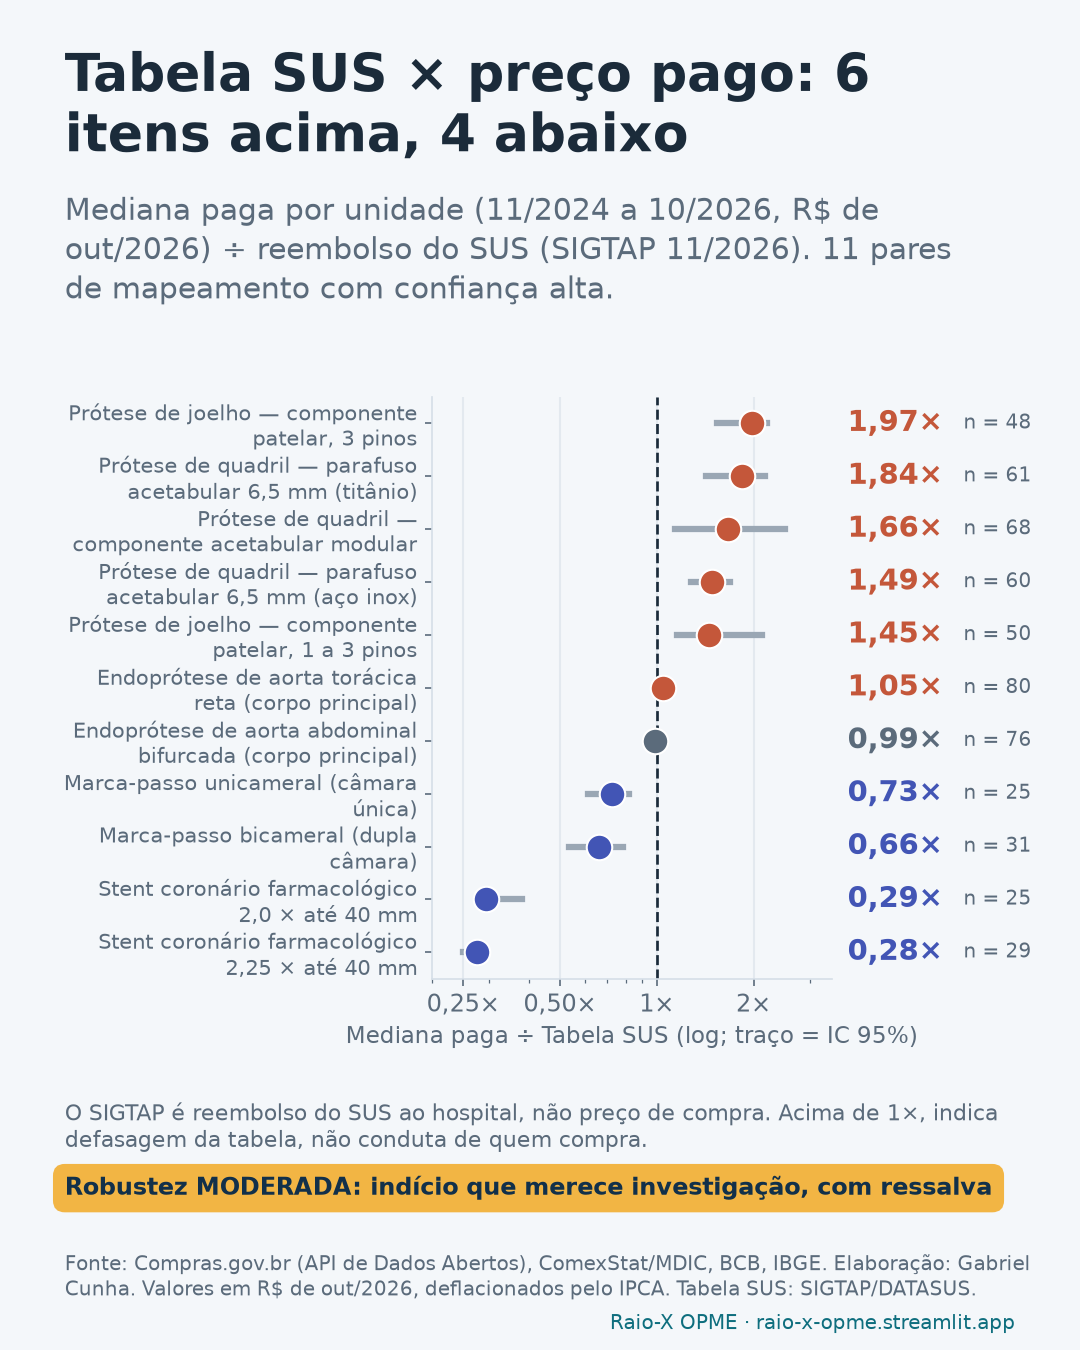
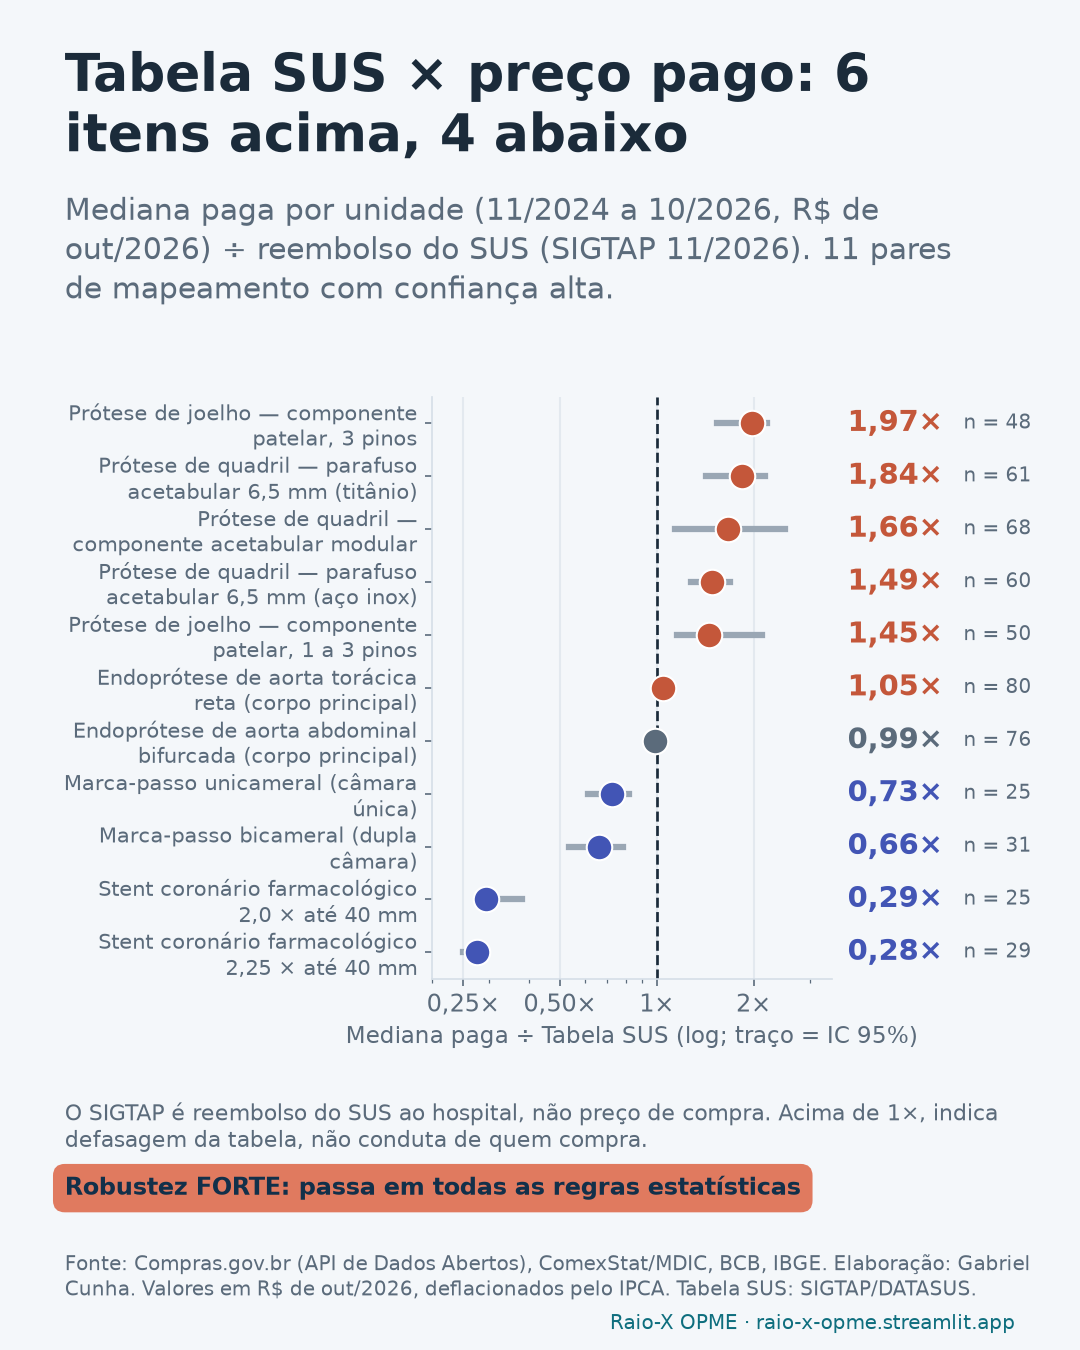
feat(sigtap): mapeamento validado pelo Gabriel
Decisões da planilha docs/validacao_sigtap.xlsx aplicadas ao
config/mapa_sigtap_catmat.yaml: MANTER nos 24 pares (11 alta, 9 média,
4 baixa) e nos 2 itens sem par, sem comentários. Todos os pares de
confiança alta têm decisão preenchida, então validado_por_gabriel passa
a true; cada par ganha o campo nota_validacao.

Gold, achados e gráfico 7 regerados: 6 achados de razão preço ÷ tabela
viram forte. O post 6 já citava só pares de confiança alta com
robustez forte e não mudou. O teste offline deixa de fixar o estado
"não validado" e um teste novo cobre a trava (forte só com mapa
validado). Docs, calendário, PENDENCIAS e PROGRESS atualizados.

Changed region(s): [[0.0306, 0.84, 0.9472, 0.9022]]

diff --git a/tests/test_sigtap.py b/tests/test_sigtap.py
@@ -8,8 +8,9 @@ import polars as pl
 import pytest
 
 from raiox.analytics.dispersion import Period
-from raiox.analytics.findings import sigtap_note
+from raiox.analytics.findings import _sigtap_findings, sigtap_note
 from raiox.analytics.sigtap_bridge import format_code, parse_mapping, ponte_sigtap_preco
+from raiox.config import get_settings
 from raiox.sources import sigtap
 
 # Layouts reais (cabeçalhos copiados dos ZIPs de 01/2015 e 11/2026): VL_SH mudou de 10 para 12.
@@ -171,3 +172,21 @@ def test_sigtap_note_follows_the_direction_of_the_difference():
     assert "defasagem" in sigtap_note(1.2, 1.8)
     assert "cobre" in sigtap_note(0.2, 0.4)
     assert "em linha" in sigtap_note(0.9, 1.1)
+
+
+@pytest.mark.parametrize(("validated", "expected"), [(False, "moderado"), (True, "forte")])
+def test_ratio_finding_is_forte_only_with_validated_mapping(validated, expected):
+    sv = _sigtap_silver()
+    comp = _purchases([1500.0] * 40 + [99999.0])  # 40 compras, IC bem acima de 1,1
+    period = Period(date(2025, 11, 1), date(2026, 10, 1))
+    data = _mapping()
+    data["validado_por_gabriel"] = validated
+    ponte = ponte_sigtap_preco(sv, comp, period, parse_mapping(data), 200, 1, 0.95)
+    ach = [
+        a
+        for a in _sigtap_findings(ponte, get_settings(offline=True), "out/2026")
+        if a["tipo"] == "ponte_sigtap"
+    ]
+    assert len(ach) == 1
+    assert ach[0]["robustez"] == expected
+    assert ("ainda não validado" in ach[0]["motivo_robustez"]) is (not validated)

diff --git a/tests/test_pipeline_offline.py b/tests/test_pipeline_offline.py
@@ -110,5 +110,8 @@ def test_offline_sigtap_bridge(offline_gold):
     serie = pl.read_parquet(gold / "sigtap_serie.parquet")
     assert set(serie["competencia"].unique()) == {"201501", "202611"}
     ach = pl.read_parquet(gold / "achados.parquet").filter(pl.col("tipo") == "ponte_sigtap")
-    # Mapa ainda não validado: nenhum achado de razão preço ÷ tabela pode ser "forte".
-    assert not (ach["robustez"] == "forte").any()
+    # Achado de razão preço ÷ tabela só é "forte" com o mapa validado e n suficiente.
+    forte = ach.filter(pl.col("robustez") == "forte")
+    validated = bool(ponte["mapa_validado"].all())
+    assert validated or forte.is_empty()
+    assert (forte["n"] >= offline_gold.findings.min_compras_forte).all()

diff --git a/docs/ACHADOS.md b/docs/ACHADOS.md
@@ -12,10 +12,10 @@ Robustez: **forte** = passa em todas as regras da seção 8 (só estes vão para
 | 4 | forte | Marca-passo bicameral (dupla câmara): 3 fornecedores = 84% do valor | 31 registros-compra, 5 fornecedores | 11/2024 a 10/2026 |
 | 5 | forte | NCM 90213911: 76% do valor importado veio de um só país (Estados Unidos) | registro censitário do comércio exterior | 2025 |
 | 6 | forte | Tabela SUS, endoprótese de aorta (SIGTAP 07.02.04.030-4): valor real caiu 47% desde 01/2015 | tabela oficial (sem amostragem) | 01/2015 a 11/2026 |
-| 7 | forte | Placa bloqueada LCP p/ calcâneo (titânio): mesmo código CATMAT, preços 13,4× diferentes (P90/P10) | 77 compras, 50 órgãos | 11/2024 a 10/2026 |
-| 8 | forte | Stents: exportação cobre 3% da importação | registro censitário do comércio exterior (sem amostragem) | 2025 |
-| 9 | forte | Cateteres: 99% dos registros só com fabricante estrangeiro | 102 registros vigentes | registros vigentes em 2026-11-18 |
-| 10 | forte | Cateter balão coronário semicomplacente (30 mm): 3 fornecedores = 77% do valor | 34 registros-compra, 14 fornecedores | 11/2024 a 10/2026 |
+| 7 | forte | Prótese de joelho — componente patelar, 3 pinos: preço praticado = 2,0× a Tabela SUS | 48 compras, 34 órgãos | 11/2024 a 10/2026; SIGTAP 11/2026 |
+| 8 | forte | Placa bloqueada LCP p/ calcâneo (titânio): mesmo código CATMAT, preços 13,4× diferentes (P90/P10) | 77 compras, 50 órgãos | 11/2024 a 10/2026 |
+| 9 | forte | Stents: exportação cobre 3% da importação | registro censitário do comércio exterior (sem amostragem) | 2025 |
+| 10 | forte | Cateteres: 99% dos registros só com fabricante estrangeiro | 102 registros vigentes | registros vigentes em 2026-11-18 |
 
 ## Evidência de cada achado
 
@@ -73,7 +73,16 @@ Robustez: **forte** = passa em todas as regras da seção 8 (só estes vão para
 - **Fonte:** SIGTAP/DATASUS (Tabela Unificada do SUS); IPCA/BCB
 - **Números:** `codigo_sigtap` = 0702040304; `valor_nominal_inicio` = 14000.0; `valor_nominal_fim` = 14000.0; `valor_real_inicio` = 26249.8693; `valor_real_fim` = 14000.0; `variacao` = -0.4667
 
-### 7. Placa bloqueada LCP p/ calcâneo (titânio): mesmo código CATMAT, preços 13,4× diferentes (P90/P10)
+### 7. Prótese de joelho — componente patelar, 3 pinos: preço praticado = 2,0× a Tabela SUS
+
+> Prótese de joelho — componente patelar, 3 pinos (CATMAT 434822): mediana de R$ 681,81 por unidade nas compras públicas (48 compras de 34 órgãos, 11/2024 a 10/2026, R$ de out/2026), contra R$ 345,46 na Tabela SUS (SIGTAP 07.02.03.024-4, competência 11/2026): o preço praticado é 2,0× o valor de tabela (IC 95%: 1,5× a 2,2×). O valor de tabela mudou durante o período (era R$ 148,57 na competência 01/2024). O SIGTAP é o valor que o SUS reembolsa ao prestador, não o preço de compra: preço acima da tabela indica defasagem do valor de tabela, não conduta de quem compra.
+
+- **Tipo:** ponte_sigtap · **Robustez:** forte (48 compras; IC 95% da razão 1,54–2,21 (forte exige ≥ 30 compras e IC fora de ±10%))
+- **Base (n):** 48 compras, 34 órgãos · **Período:** 11/2024 a 10/2026; SIGTAP 11/2026 · **Unidade:** R$ por unidade
+- **Fonte:** Compras.gov.br (API de Dados Abertos, pesquisa de preços); SIGTAP/DATASUS (Tabela Unificada do SUS); IPCA/BCB
+- **Números:** `codigo_sigtap` = 0702030244; `valor_sigtap` = 345.46; `mediana_preco` = 681.806; `razao` = 1.9736; `ic_inf` = 1.5361; `ic_sup` = 2.209; `n_compras` = 48; `n_orgaos` = 34; `mapa_validado` = True
+
+### 8. Placa bloqueada LCP p/ calcâneo (titânio): mesmo código CATMAT, preços 13,4× diferentes (P90/P10)
 
 > Sob o mesmo código CATMAT 440305 (Placa bloqueada LCP p/ calcâneo (titânio)), os 10% mais caros pagaram ao menos R$ 3.910,24 por unidade e os 10% mais baratos até R$ 292,11: 13,4× de dispersão. O código abriga marcas e especificações diferentes, o que limita a comparação direta de preços. Base: 77 compras de 50 órgãos, 11/2024 a 10/2026, R$ de out/2026, sem outliers.
 
@@ -82,7 +91,7 @@ Robustez: **forte** = passa em todas as regras da seção 8 (só estes vão para
 - **Fonte:** Compras.gov.br (API de Dados Abertos, pesquisa de preços)
 - **Números:** `p10` = 292.1111; `p90` = 3910.2427; `mediana` = 1203.9835; `p90_p10` = 13.3862; `n_compras` = 77; `n_orgaos` = 50; `item_heterogeneo` = True
 
-### 8. Stents: exportação cobre 3% da importação
+### 9. Stents: exportação cobre 3% da importação
 
 > Em 2025, o Brasil importou US$ 100,6 mi (FOB) em stents (NCM 90219012) e exportou US$ 2,8 mi: as exportações cobriram 2,8% das importações.
 
@@ -91,7 +100,7 @@ Robustez: **forte** = passa em todas as regras da seção 8 (só estes vão para
 - **Fonte:** ComexStat/MDIC
 - **Números:** `ano` = 2025; `import_fob_usd` = 100601115.0; `export_fob_usd` = 2803784.0; `cobertura` = 0.0279; `ncms` = 90219012
 
-### 9. Cateteres: 99% dos registros só com fabricante estrangeiro
+### 10. Cateteres: 99% dos registros só com fabricante estrangeiro
 
 > Cateteres: 99% dos 102 registros vigentes na ANVISA têm apenas fabricante(s) estrangeiro(s). Principais países fabricantes: CHINA, REPÚBLICA POPULAR (35%), ESTADOS UNIDOS DA AMÉRICA (19%), ÍNDIA (9%), HOLANDA (PAÍSES BAIXOS) (7%). Registro não mede volume vendido: é um indicador de dependência tecnológica (dados de 2026-11-18).
 
@@ -99,15 +108,6 @@ Robustez: **forte** = passa em todas as regras da seção 8 (só estes vão para
 - **Base (n):** 102 registros vigentes · **Período:** registros vigentes em 2026-11-18 · **Unidade:** % dos registros
 - **Fonte:** ANVISA (dados abertos, produtos para saúde)
 - **Números:** `registros_vigentes` = 102; `share_so_estrangeiro` = 0.9902; `share_com_fabricante_nacional` = 0.0098
-
-### 10. Cateter balão coronário semicomplacente (30 mm): 3 fornecedores = 77% do valor
-
-> Os 3 maiores fornecedores responderam por 77% do valor comprado de Cateter balão coronário semicomplacente (30 mm) (14 fornecedores no total; HHI 2.172), de 11/2024 a 10/2026. Concentração alta não indica irregularidade: pode refletir poucos fabricantes com registro no país.
-
-- **Tipo:** concentracao_fornecedores · **Robustez:** forte (base de 34 compras (forte exige ≥ 30))
-- **Base (n):** 34 registros-compra, 14 fornecedores · **Período:** 11/2024 a 10/2026 · **Unidade:** % do valor em R$
-- **Fonte:** Compras.gov.br (API de Dados Abertos, pesquisa de preços)
-- **Números:** `cr3` = 0.7719; `hhi` = 2171.9528; `n_fornecedores` = 14
 
 ## Todos os achados
 

diff --git a/PENDENCIAS.md b/PENDENCIAS.md
@@ -9,7 +9,7 @@
 - Painel Streamlit com 6 páginas, mapa por UF e nenhuma chamada de rede. O AppTest cobre todas as páginas e todos os itens. Screenshots reais no README.
 - Kit LinkedIn: 6 PNGs 1080×1350 com selo de robustez, carrossel PDF de 10 páginas, 5 posts testados e calendário.
 - 60 testes, com 93% de cobertura em `transform` e `analytics`. Workflows de CI e de atualização mensal validados com actionlint e rodados localmente.
-- Rodada 2 (18/11/2026): Tabela SUS (SIGTAP) × preço praticado com mapa SIGTAP × CATMAT a validar (pendência 7), correção de percentuais nos títulos dos achados e nova identidade visual do painel (claro e escuro, screenshots em `docs/img/`).
+- Rodada 2 (18/11/2026): Tabela SUS (SIGTAP) × preço praticado com mapa SIGTAP × CATMAT validado pelo Gabriel (pendência 7), correção de percentuais nos títulos dos achados e nova identidade visual do painel (claro e escuro, screenshots em `docs/img/`).
 - Auditoria em clone limpo: revelou que a paginação da API é instável (linhas duplicadas e faltando entre páginas). Corrigido com coleta por janelas de data e verificado de novo.
 
 ### Como rodar
@@ -31,7 +31,7 @@ Testes e qualidade: `uv run python -m pytest` · `uv run ruff check .` · `uv ru
 | 4 | importante | 5 | Nenhuma diferença de preço entre UFs passou como "forte": 7 indícios moderados, 12 fracos e 6 itens sem amostra. Os maiores contrastes aparecem em itens cujo código CATMAT mistura marcas (P90/P10 nacional de até 46×). | Trava de homogeneidade declarada e configurável (P90/P10 > 5×). Há gráfico e post explicando. Os indícios moderados estão no painel com a ressalva. | Aceitar o resultado como está (recomendado) ou ampliar a base (pendência 5) antes de buscar manchete por UF. |
 | 5 | opcional | 1, 5.6 | O módulo de itens de contratações PNCP (Lei 14.133) da API do Compras deu 504/timeout, mesmo com janela de 1 mês e um item. | Endpoint documentado em `docs/FONTES.md`; cliente pronto em `src/raiox/sources/pncp.py`; flag desligado. | Mais tarde: `complementary.pncp_itens.enabled: true` e `uv run raiox ingest complementares`. Ampliaria a cobertura de estados e municípios. |
 | 6 | opcional | 5.6 | O Banco de Preços em Saúde publica XLSX (não CSV), e as bases compiladas de 2023–2024 não têm nenhum dos 25 CATMATs: são quase só medicamentos e reagentes. | Download verificado (`/@@download/file` funciona com GET; HEAD dá 403). Módulo `bps.py` pronto e desligado. | Nada, salvo se surgir base aberta com OPME. |
-| 7 | importante | 5.6 | SIGTAP implementado (rodada 2): a página oficial de download estava indisponível; os ZIPs vêm do FTP público que ela referencia. O mapa SIGTAP × CATMAT (24 pares: 11 alta, 9 média, 4 baixa) é curadoria e **ainda não foi validado**. | `config/mapa_sigtap_catmat.yaml` com justificativa por par; achados de razão preço ÷ tabela limitados a moderado até a validação; post 6 e gráfico 7 prontos. | Revisar o mapa par a par, mudar `validado_por_gabriel: true`, rodar `uv run raiox analyze` e `uv run raiox charts`, e só então publicar o post 6. |
+| 7 | opcional | 5.6 | SIGTAP implementado (rodada 2): a página oficial de download estava indisponível; os ZIPs vêm do FTP público que ela referencia. **Mapa validado pelo Gabriel em 18/11/2026** (planilha `docs/validacao_sigtap.xlsx`: MANTER nos 24 pares e nos 2 itens sem par; 11 alta, 9 média, 4 baixa). | `validado_por_gabriel: true` e `nota_validacao` por par; `analyze` e `charts` regerados: 6 achados de razão preço ÷ tabela viraram forte. Post 6 confere com a gold e não precisou mudar. | Só os screenshots `docs/img/painel_tabela_sus*.png` ainda mostram o aviso de mapa não validado: regerar quando for atualizar as imagens do README. |
 | 8 | opcional | 2 | Válvulas cardíacas e stent coronário convencional ficaram fora do catálogo por volume (no máximo 17 e 10 compras em 24 meses). | Continuam na análise de importação e da ANVISA. O critério está em `catalog.min_purchases`. | Reavaliar quando o histórico mensal acumular. |
 | 9 | opcional | 0 | Nesta máquina, o controle de aplicativos do Windows bloqueia `pytest.exe` e `streamlit.exe` gerados pelo uv. | A documentação usa `uv run python -m ...`, que funciona; também existe `python -m raiox`. | Nada. Se quiser os atalhos, liberar `.venv\Scripts` na política do Windows. |
 

diff --git a/linkedin/posts/CALENDARIO.md b/linkedin/posts/CALENDARIO.md
@@ -9,7 +9,7 @@ Terças-feiras, 8h, a partir do deploy do painel. Antes de cada post, rode `uv r
 | 3 | 08/12/2026 | `03_marca_passo_importado.md` | `graficos/3_dependencia_importacao.png` | forte (ANVISA e ComexStat, censitários) |
 | 4 | 15/12/2026 | `04_dependencia_por_familia.md` | `graficos/3_dependencia_importacao.png` | forte |
 | 5 | 22/12/2026 | `05_por_que_nao_ha_manchete.md` | `graficos/1_ranking_ufs.png` (com o selo de robustez moderada visível) | descreve as regras; não afirma diferença |
-| 6 | 05/01/2027 | `06_tabela_sus.md` | `graficos/7_tabela_sus_vs_preco.png` | **só depois de validar o mapa**: os 4 pares citados viram forte (n ≥ 30, IC fora de ±10%); a defasagem real da tabela já é forte |
+| 6 | 05/01/2027 | `06_tabela_sus.md` | `graficos/7_tabela_sus_vs_preco.png` | forte: mapa validado em 18/11/2026; os 4 pares citados são de confiança alta e forte (n ≥ 30, IC fora de ±10%); a defasagem real da tabela é forte |
 
 Checklist antes de publicar (seção 9 do SUPERPROMPT):
 
@@ -21,7 +21,7 @@ Checklist antes de publicar (seção 9 do SUPERPROMPT):
 
 Os gráficos `2_mesmo_item_duas_ufs.png`, `4_importacao_vs_publico.png` e `5_evolucao_preco_real.png` mostram achados **moderados**: servem para comentários e respostas, com a ressalva visível no selo, não como manchete.
 
-**Antes do post 6:** revise `config/mapa_sigtap_catmat.yaml` par a par, mude `validado_por_gabriel` para
-`true`, rode `uv run raiox analyze` e `uv run raiox charts` e confira em `docs/ACHADOS.md` se os quatro
-pares citados ficaram com robustez forte e se os números do texto continuam iguais. O post afirma que o
-mapeamento foi validado por você: não publique antes disso.
+**Post 6:** o mapa `config/mapa_sigtap_catmat.yaml` foi validado em 18/11/2026 (planilha
+`docs/validacao_sigtap.xlsx`). Se algum par mudar depois disso, rode `uv run raiox analyze` e
+`uv run raiox charts` e confira em `docs/ACHADOS.md` se os pares citados continuam de confiança alta e
+robustez forte, e se os números do texto continuam iguais.

diff --git a/PROGRESS.md b/PROGRESS.md
@@ -81,3 +81,5 @@ Legenda: `[ ]` a fazer · `[~]` em andamento · `[x]` concluído · `[!] pendent
 - [x] Parte C — identidade visual: paleta única (claro e escuro) com contraste AA e categórica segura para daltonismo (testes), tema do Streamlit com `[theme.light]`/`[theme.dark]`, CSS global em `app/ui/style.py` (hero, cards de KPI e achados com selo, seções, rodapé), assets SVG originais (`app/assets/`, créditos), template Plotly "raiox" em todos os gráficos, mapa com legenda de amostra insuficiente, gráficos do LinkedIn regerados, screenshots 1440/390 px em `docs/img/`
 - [x] Parte D — testes (143, sem avisos; cobertura 93,8%), ruff, docs e commits por parte
 - [x] Auditoria LGPD do histórico Git (todas as versões, inclusive bronze, gold e fixtures): nenhum CPF sem máscara; `data/bronze/` saiu do versionamento (`git rm --cached`) e o `refresh.yml` não faz mais commit dela
+- [x] Merge da atualização mensal do workflow (bronze fora do versionamento; gold e `linkedin/` locais) e gold regerada sem diferença
+- [x] Mapa SIGTAP × CATMAT validado pelo Gabriel (planilha `docs/validacao_sigtap.xlsx`, todas as decisões MANTER): `validado_por_gabriel: true`, `nota_validacao` por par, 6 achados de razão preço ÷ tabela forte; post 6 conferido; teste novo da trava de validação

diff --git a/docs/METODOLOGIA.md b/docs/METODOLOGIA.md
@@ -137,7 +137,8 @@ dados; por isso está declarado e é configurável.
   tabela de compatibilidade do SIGTAP (qual OPME pode ser cobrada em qual procedimento). Cada par tem
   confiança **alta** (mesmo dispositivo e componente), **média** (o código SIGTAP agrupa coisas que o
   CATMAT separa, como "inclui parafusos") ou **baixa** (correspondência aproximada). Na dúvida, o item fica
-  sem par. O mapa precisa ser validado pelo autor (`validado_por_gabriel`).
+  sem par. O mapa foi validado pelo autor par a par em 18/11/2026 (`validado_por_gabriel: true`; registro
+  em `docs/validacao_sigtap.xlsx`). Sem essa validação, nenhum achado de razão passa de "moderado".
 - **Comparação:** mediana paga no período de análise (sem outliers, R$ reais) ÷ valor de tabela da
   competência mais recente, com IC 95% por bootstrap das compras.
 - **Leitura:** acima de 1× (IC todo acima), o reembolso não cobre a compra e a diferença indica

diff --git a/README.md b/README.md
@@ -138,7 +138,7 @@ Lista completa em [docs/METODOLOGIA.md](docs/METODOLOGIA.md#11-limitações-conh
 - [ ] Itens de contratações PNCP (Lei 14.133) quando o endpoint estabilizar — amplia estados e municípios.
 - [ ] Comparação "mesma marca, estados diferentes" para separar preço de mix de produtos.
 - [ ] Banco de Preços em Saúde (BPS) completo, se houver base aberta com OPME.
-- [x] Tabela SIGTAP (valor de referência SUS) × preço praticado (mapa SIGTAP × CATMAT a validar).
+- [x] Tabela SIGTAP (valor de referência SUS) × preço praticado (mapa SIGTAP × CATMAT validado).
 - [ ] Mais itens no catálogo à medida que o histórico acumula.
 
 ## Autor

diff --git a/docs/FONTES.md b/docs/FONTES.md
@@ -150,7 +150,7 @@ stent farmacológico caiu para R$ 844,73 e voltou a R$ 2.034,50 no fim de 2023).
 cada ano, mudanças entre dois janeiros podem não aparecer; os textos dos achados dizem isso.
 
 O SIGTAP é o valor que o SUS **reembolsa** ao prestador por unidade de OPME, não o preço de compra. O mapa
-entre códigos SIGTAP e itens CATMAT está em `config/mapa_sigtap_catmat.yaml` (a validar).
+entre códigos SIGTAP e itens CATMAT está em `config/mapa_sigtap_catmat.yaml` (validado pelo autor em 18/11/2026).
 
 ## TLS
 
